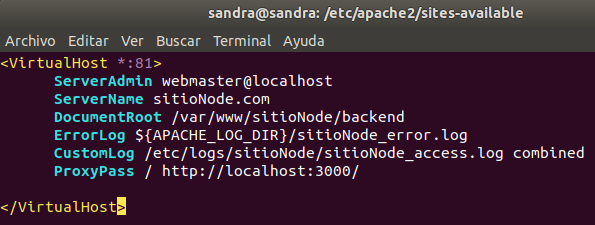
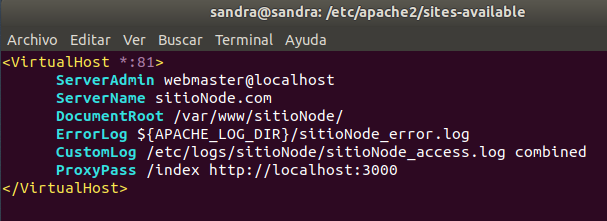
Finalizado: punto 2

diff --git a/README.md b/README.md
@@ -248,7 +248,7 @@ ejecutándose en el puerto 3000 de nuestra máquina.
 5. Al acceder a http://localhost:81/documentación se producirá una redirección
 a la página oficial de nodejs (https://nodejs.org/en/)
 
-- Creamos una aplicación Nodejs ejecutándose por el puerto 81.
+- Creamos una aplicación Nodejs en el directorio que queramos, en nuestro caso _/home/sandra/Escritorio/practicaApache/aplicacionNode, el directorio aplicación node, contiene nuestro index.js ejecutándose por el puerto 81 y el package.json.
 
 COnfirmarmos que nuestra aplicación funciona y se ejecuta por el puerto 3000.
 
@@ -258,15 +258,12 @@ COnfirmarmos que nuestra aplicación funciona y se ejecuta por el puerto 3000.
 
 - Creamos nuestro virtual host por el puerto 81 siguiendo los mismos pasos que en el punto anterior.
 
-- El directorio donde se encuentra el contenido debe esr /var/www/sitioNode
+- El directorio donde se encuentra el contenido debe ser /var/www/sitioNode
 
 - Creamos la carpeta
 
 ![img](img/captura24.png)
 
-- Colocamos dentro la aplicación node que  hemos creado
-
-![img](img/captura25.png)
 
 - Damos permisos a la carpeta:
 
@@ -294,7 +291,7 @@ COnfirmarmos que nuestra aplicación funciona y se ejecuta por el puerto 3000.
 
 - Creamos la carpeta donde se guardarán los logs y que hemos especificado en la directiva:
 
- ![img](img/captura28.png)
+   ![img](img/captura28.png)
 
 - Especificamos el nuevo puerto que vamos a utilizar (81) en el archivo de configuración de puertos de apache _/etc/apache2/ports.conf
 
@@ -306,31 +303,41 @@ COnfirmarmos que nuestra aplicación funciona y se ejecuta por el puerto 3000.
   sudo a2ensite sitioNode.conf 
   ```
 
-- Para que apache pueda ejecutar la aplicación node necesitamos añadir la directiva ProxyPass al archivo de configuración de nuestro host:
-
-  ![img](img/captura32.png)
-
-- Reiniciamos servidor
-
-  ```
-  sudo service apache2 reload
-  ```
-
 - Verificamos que se ha habilitado el host
 
   ![img](img/captura30.png)
 
  - Verificamos que se ha creado el archivo de logs
 
-  ![img](img/captura31.png)
+   ![img](img/captura31.png)
+
+- Procedemos a que apache pueda ejecutar nuestra aplicación node. Para ello, añadimos la directiva ProxyPass al archivo de configuración de nuestro host: esto hará que al indicar la ruta localhost:81/index, nos redirigirá a nuestra aplicación node que está en marcha, como he visto al principio, en el puerto 3000.
+
+  ![img](img/captura32.png)
+
+- Para que la directiva ProxyPass funcione, tenemos que habilitar el módulo proxy_http.
+
+- Verificamos si lo tenemos instalado, mostrando una lista de todos los módulos instalados:
+
+```
+sudo /usr/sbin/apache2ctl -t -D DUMP_MODULES
+```
+- Como no aparece en la lista, ejecutamos el siguiente comando:
+
+```
+sudo /usr/sbin/apache2ctl -t -D DUMP_MODULES
+```
+
+![img](img/captura41.png)
+
+- Verificamos síntaxis y reiniciamos servidor
 
 - Verificamos que el sitio funciona en el navegador
 
-  
  ![img](img/captura33.png)
 
 
- - Dispone de un directorio /public_files cuyo contenido se listará al acceder a http://localhost:81/public_files. El acceso a dicho directorio estará restringido a aquellos usuarios conocidos por el sistema. Las directivas necesarias estarán en un fichero .htaccess
+- El sitio 2, dispondrá de un directorio /public_files cuyo contenido se listará al acceder a http://localhost:81/public_files. El acceso a dicho directorio estará restringido a aquellos usuarios conocidos por el sistema. Las directivas necesarias estarán en un fichero .htaccess
 
 - Los ficheros **htaccess** son ficheros de configuración de apache que nos permiten definir directivas a nivel de directorio sin necesidad de ser administradores del servidor.
 
@@ -339,36 +346,90 @@ COnfirmarmos que nuestra aplicación funciona y se ejecuta por el puerto 3000.
 ![img](img/captura34.png)
 
 
-- Añadimos un Alias al archivo de configuración de nuestro host para poder acceder al contenido de la carpeta
+- Añadimos el Alias public_files al archivo de configuración de nuestro host, como se pide en el ejercicio, para poder acceder al contenido de la carpeta:
 
 ![img](img/captura36.png)
 
 - Verificamos sintaxis y relanzamos servidor.
 
+- Verificamos que funciona:
 
-- Sobre el directorio, añadimos un htaccess con el siguiente contenido:
+  ![img](img/captura37.png)
 
-![img](img/captura35.png) //ESTA MAL
+- Para restringir el acceso al directorio a solo aquellos usuarios conocidos por el sistema, crearemos un fichero .htaccess. 
+
+- Los ficheros **htaccess** son ficheros de configuración distribuida que nos permiten definir directivas a nivel de directorio, sin necesidad de ser administradores del servidor.
+
+- En el directorio public_files, añadimos el .htaccess, con el siguiente contenido. Con estas directivas, pediremos usuario y contraseña a los usurios del sistema que quieran acceder a este directorio.
+
+  ![img](img/captura35.png)
 
 - Una de las caraterísticas de los ficheros de configuración htaccess es que no necesitamos reiniciar el servidor para que los cambios se activen.
 - Una de las desventajas es que no podemos verificar la sintaxis.
 
-- Para que el fichero htaccess funcione, es necesario que el administrador del servidor nos otorgue permisos de sobreescritura, por lo tanto, nos dirigimos al archivo de configuración de apache _/etc/apache2/apache2.conf_ y en la sección de Directory añadimos la siguiente directiva:
+- Creamos el fichero de claves especificado en el htaccess. Nos situamos en la ruta /etc/apache2 y tecleamos este comando:
+
+  ```
+  sudo htpasswd -c claves.txt sandra
+  ```
+- Nos pedirá la contaseña del usuario dos veces, la introducimos y nos guarda el usuario y la contraseña.
+
+  ![img](img/captura39.png)
+
+- Verificamos que el archivo y las claves se han creado:
+
+  ![img](img/captura40.png)
+
+- Para que el fichero htaccess funcione, es necesario que el administrador del servidor nos otorgue permisos de sobreescritura, por lo tanto, nos dirigimos al archivo de configuración de apache _/etc/apache2/apache2.conf_ y en la sección de Directory añadimos la siguiente directiva, al final.
+
+  ![img](img/captura38.png)
+
+  - Verificamos sintaxis
+  - Relanzamos servidor
+
+- Verificamos que la restricción de acceso al directorio public_files funcione:
+
+  ![img](img/captura42.png)
+
+  - Si no introducimos usuario y contraseña, nos aparece el mensaje de acceso no autorizado:
+
+   ![img](img/captura43.png)
+
+- Si introducimos el usuario y la contraseña, nos permite acceder al contenido del directorio:
+
+ ![img](img/captura37.png)
+
+ ![img](img/captura44.png)
+
+
+## Al acceder a http://localhost:81/documentación se producirá una redirección a la página oficial de nodejs (https://nodejs.org/en/)
+
+- Añadimos la directiva **Redirect** al archivo de configuración de nuestro host _/etc/apache2/sites-available/sitioNode.conf, especificando el Endpoint y la url de la página donde redirigimos:
+
+![img](img/captura45.png)
+
+- Verificamos que funciona
+
+![img](img/captura46.png)
+
+![img](img/captura47.png)
+
+## (Investigación) Intenta monitorizar los logs de apache de uno de los sitios web por medio de la herramienta GoAccess mostrando el resultado en http://localhost/logs_sistema (2 puntos).
+
+
+1. Instalamos goAccess:
+
+```
+sudo apt-get install goaccess
+```
+
+![img](img/captura48.png)
 
 
 
 
 
 
-
-
-
-
-
-
-
-Al acceder a http://localhost:81/documentación se producirá una redirección
-a la página oficial de nodejs (https://nodejs.org/en/)
 
 
 
